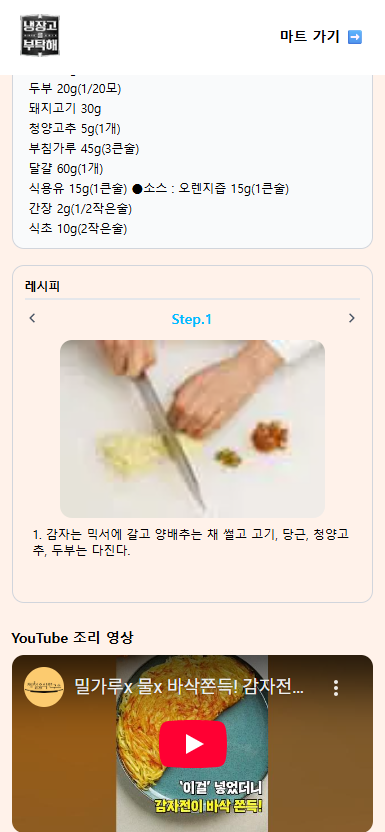
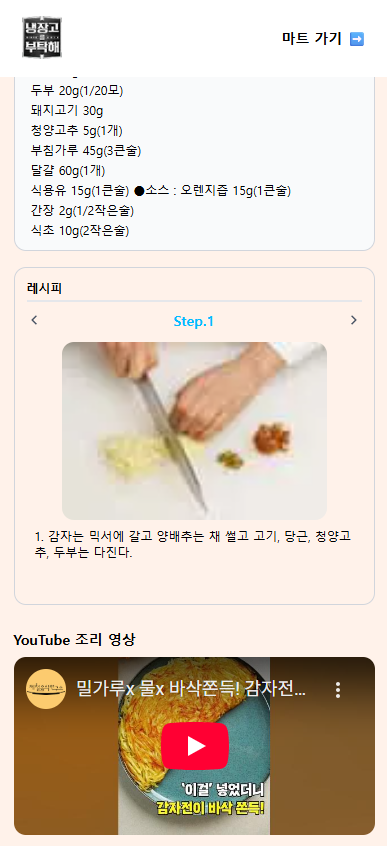
feature: 레이아웃 배경색상 변경 및 로딩 UI CSS 수정

diff --git a/src/app/(recipes)/recipes/detail/[name]/page.tsx b/src/app/(recipes)/recipes/detail/[name]/page.tsx
@@ -83,60 +83,61 @@ export default function DetailPage({ params }: Props) {
     fetchRecipeDetail(menu);
   }, [menu]);
 
-  if (!recipe)
-    return (
-      <div className='w-full h-10 flex justify-center items-center'>
-        <span className='text-sm text-gray-400'>{menu} 불러오는 중...</span>
-      </div>
-    );
-
   return (
-    <div className='relative w-[393px] md:h-[calc(100vh-78px)] md:max-h-[758px] flex flex-col px-4 py-2 overflow-y-scroll [&::-webkit-scrollbar]:hidden h-[calc(100vh-3rem)] max-h-[calc(852px-4rem)] bg-[#fff2ea]'>
-      {/* 제목 (헤더 안에 있으니 여기선 그냥 margin) */}
-      <div className='mb-3 text-center font-bold text-lg break-keep'>
-        {recipe.RCP_NM}
-      </div>
-
-      {/* 이미지 */}
-      <div className='flex justify-center mb-4'>
-        <Image
-          src={recipe.ATT_FILE_NO_MAIN || fallback}
-          alt={recipe.RCP_NM}
-          width={350}
-          height={350}
-          className='rounded-xl object-cover'
-        />
-      </div>
-
-      {/* 재료 */}
-      <section className='bg-gray-50 rounded-xl border border-gray-300 p-3 mb-4 text-xs font-bold'>
-        <p className='mb-2'>재료</p>
-        <div className='font-normal space-y-1'>
-          {recipe.RCP_PARTS_DTLS.split(',').map((item) => (
-            <div key={item.trim()} className='pl-1'>
-              {item.trim()}
-            </div>
-          ))}
+    <>
+      {!recipe ? (
+        <div className='w-full h-10 flex justify-center items-center bg-[#fff2ea]'>
+          <span className='text-sm text-black'>불러오는 중...</span>
         </div>
-      </section>
+      ) : (
+        <div className='relative w-[393px] md:h-[calc(100vh-78px)] md:max-h-[758px] flex flex-col px-4 py-2 overflow-y-scroll [&::-webkit-scrollbar]:hidden h-[calc(100vh-3rem)] max-h-[calc(852px-4rem)] bg-[#fff2ea]'>
+          {/* 제목 (헤더 안에 있으니 여기선 그냥 margin) */}
+          <div className='mb-3 text-center font-bold text-lg break-keep'>
+            {recipe.RCP_NM}
+          </div>
 
-      {/* 조리 과정 */}
-      <DetailRecipe step={step} />
+          {/* 이미지 */}
+          <div className='flex justify-center mb-4'>
+            <Image
+              src={recipe.ATT_FILE_NO_MAIN || fallback}
+              alt={recipe.RCP_NM}
+              width={350}
+              height={350}
+              className='rounded-xl object-cover'
+            />
+          </div>
 
-      {/* 유튜브 영상 */}
-      {videoId && (
-        <div className='mt-6'>
-          <h3 className='font-bold mb-2 text-sm'>YouTube 조리 영상</h3>
-          <iframe
-            width='100%'
-            height='315'
-            src={`https://www.youtube.com/embed/${videoId}`}
-            title={`${menu} 레시피 영상`}
-            allowFullScreen
-            className='rounded-xl w-full h-full'
-          />
+          {/* 재료 */}
+          <section className='bg-gray-50 rounded-xl border border-gray-300 p-3 mb-4 text-xs font-bold'>
+            <p className='mb-2'>재료</p>
+            <div className='font-normal space-y-1'>
+              {recipe.RCP_PARTS_DTLS.split(',').map((item) => (
+                <div key={item.trim()} className='pl-1'>
+                  {item.trim()}
+                </div>
+              ))}
+            </div>
+          </section>
+
+          {/* 조리 과정 */}
+          <DetailRecipe step={step} />
+
+          {/* 유튜브 영상 */}
+          {videoId && (
+            <div className='mt-6 mb-2'>
+              <h3 className='font-bold mb-2 text-sm'>YouTube 조리 영상</h3>
+              <iframe
+                width='100%'
+                height='315'
+                src={`https://www.youtube.com/embed/${videoId}`}
+                title={`${menu} 레시피 영상`}
+                allowFullScreen
+                className='rounded-xl w-full h-full'
+              />
+            </div>
+          )}
         </div>
       )}
-    </div>
+    </>
   );
 }

diff --git a/src/app/layout.tsx b/src/app/layout.tsx
@@ -10,7 +10,7 @@ export default function RootLayout({
     <html lang='en'>
       <body>
         <div className='min-h-[100dvh] w-full flex items-center justify-center bg-gray-300'>
-          <div className='w-full max-w-[393px] h-[100dvh] max-h-[852px] bg-white flex flex-col items-center'>
+          <div className='w-full max-w-[393px] h-[100dvh] max-h-[852px] bg-[#fff2ea] flex flex-col items-center'>
             <Header />
             {children}
           </div>
